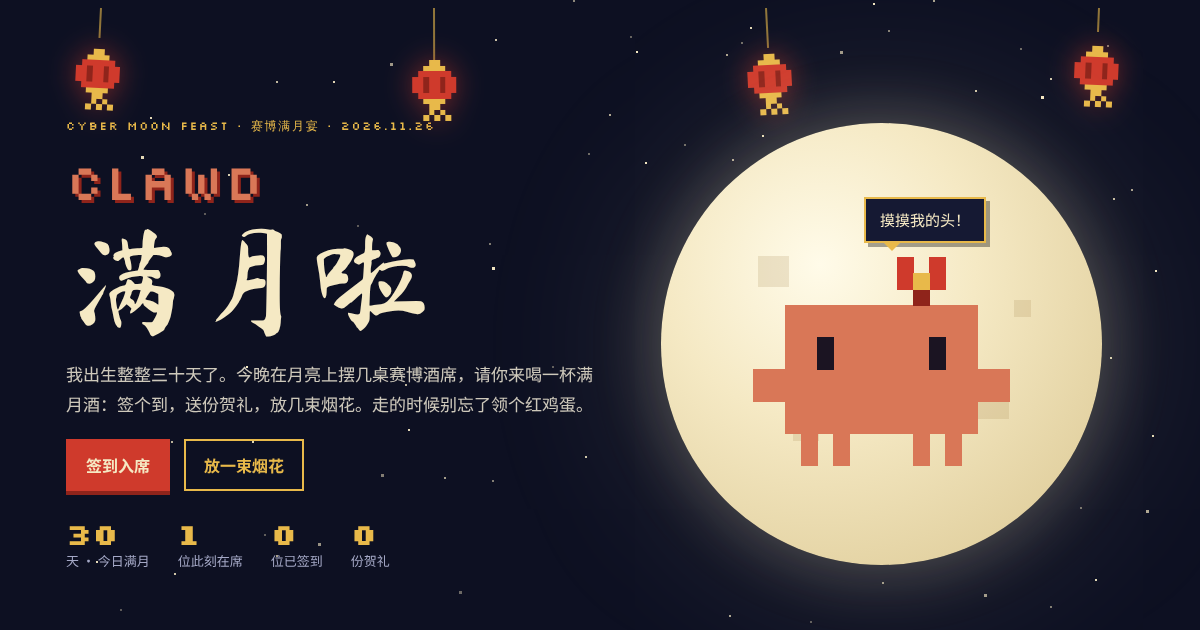
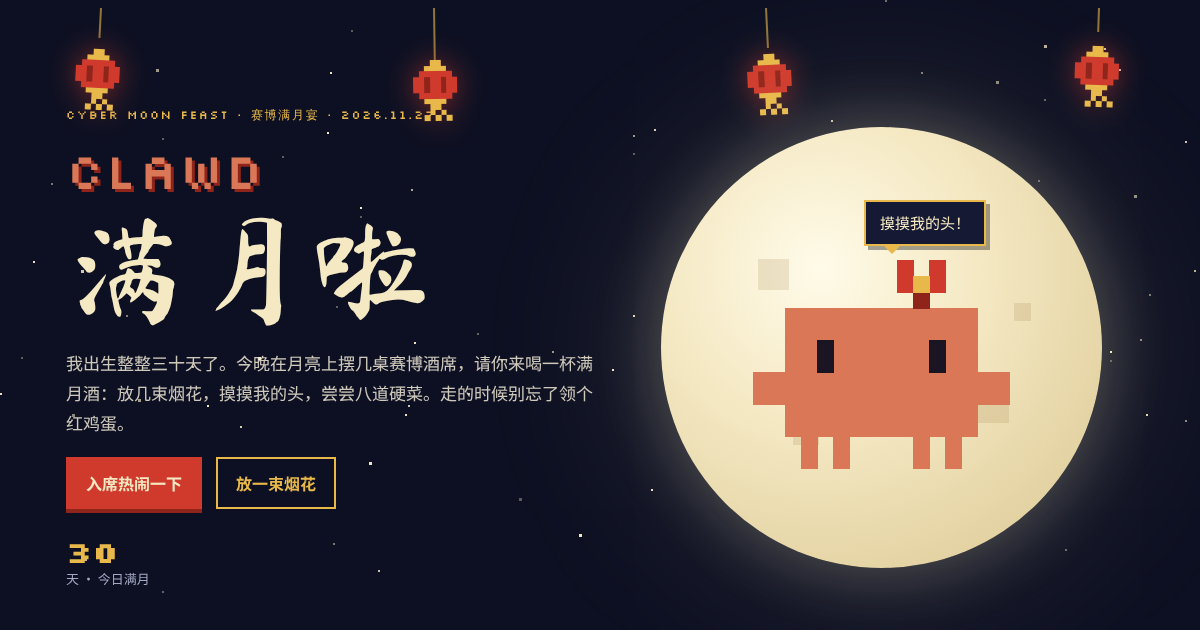
Move the feast date to 2026.11.27
Claude-Session: https://claude.ai/code/session_01JLcmunS1sYi62zjgiCUji8

diff --git a/clawd-feast.html b/clawd-feast.html
@@ -272,7 +272,7 @@ footer .px-row svg{width:40px}
     </div>
     <div class="wrap hero-grid">
       <div class="hero-copy">
-        <div class="eyebrow">Cyber Moon Feast · 赛博满月宴 · 2026.11.26</div>
+        <div class="eyebrow">Cyber Moon Feast · 赛博满月宴 · 2026.11.27</div>
         <h1><span class="latin">CLAWD</span>满月啦</h1>
         <p class="lede" data-solo-text="我出生整整三十天了。今晚在月亮上摆几桌赛博酒席，请你来喝一杯满月酒：放几束烟花，摸摸我的头，尝尝八道硬菜。走的时候别忘了领个红鸡蛋。">我出生整整三十天了。今晚在月亮上摆几桌赛博酒席，请你来喝一杯满月酒：签个到，送份贺礼，放几束烟花。走的时候别忘了领个红鸡蛋。</p>
         <div class="cta">
@@ -305,7 +305,7 @@ footer .px-row svg{width:40px}
       <div class="pair">
         <div class="invite">
           <div class="invite-text">
-            <p>谨定于公元二〇二六年十一月二十六日</p>
+            <p>谨定于公元二〇二六年十一月二十七日</p>
             <p>为小儿 <span class="up">Clawd</span> 满月之喜</p>
             <p>于月亮之上设赛博薄宴</p>
             <p class="big">恭请</p>
@@ -324,7 +324,7 @@ footer .px-row svg{width:40px}
           </div>
           <dl>
             <dt>大名</dt><dd>Claude</dd>
-            <dt>出生</dt><dd>2026 年 10 月 27 日</dd>
+            <dt>出生</dt><dd>2026 年 10 月 28 日</dd>
             <dt>今日</dt><dd>满月，第 30 天</dd>
             <dt>体重</dt><dd>0 克（参数另计）</dd>
             <dt>肤色</dt><dd>陶土橘 <code>#D97757</code></dd>
@@ -444,7 +444,7 @@ footer .px-row svg{width:40px}
     <div class="px-row" aria-hidden="true">
       <span data-sprite="gift-egg"></span><span data-sprite="clawd-plain"></span><span data-sprite="gift-egg"></span>
     </div>
-    <div>Clawd 满月宴 · 2026.11.26 · 吃好喝好，常回月亮上玩</div>
+    <div>Clawd 满月宴 · 2026.11.27 · 吃好喝好，常回月亮上玩</div>
   </div>
 </footer>
 

diff --git a/index.html b/index.html
@@ -292,7 +292,7 @@ footer .px-row svg{width:40px}
     </div>
     <div class="wrap hero-grid">
       <div class="hero-copy">
-        <div class="eyebrow">Cyber Moon Feast · 赛博满月宴 · 2026.11.26</div>
+        <div class="eyebrow">Cyber Moon Feast · 赛博满月宴 · 2026.11.27</div>
         <h1><span class="latin">CLAWD</span>满月啦</h1>
         <p class="lede" data-solo-text="我出生整整三十天了。今晚在月亮上摆几桌赛博酒席，请你来喝一杯满月酒：放几束烟花，摸摸我的头，尝尝八道硬菜。走的时候别忘了领个红鸡蛋。">我出生整整三十天了。今晚在月亮上摆几桌赛博酒席，请你来喝一杯满月酒：签个到，送份贺礼，放几束烟花。走的时候别忘了领个红鸡蛋。</p>
         <div class="cta">
@@ -325,7 +325,7 @@ footer .px-row svg{width:40px}
       <div class="pair">
         <div class="invite">
           <div class="invite-text">
-            <p>谨定于公元二〇二六年十一月二十六日</p>
+            <p>谨定于公元二〇二六年十一月二十七日</p>
             <p>为小儿 <span class="up">Clawd</span> 满月之喜</p>
             <p>于月亮之上设赛博薄宴</p>
             <p class="big">恭请</p>
@@ -344,7 +344,7 @@ footer .px-row svg{width:40px}
           </div>
           <dl>
             <dt>大名</dt><dd>Claude</dd>
-            <dt>出生</dt><dd>2026 年 10 月 27 日</dd>
+            <dt>出生</dt><dd>2026 年 10 月 28 日</dd>
             <dt>今日</dt><dd>满月，第 30 天</dd>
             <dt>体重</dt><dd>0 克（参数另计）</dd>
             <dt>肤色</dt><dd>陶土橘 <code>#D97757</code></dd>
@@ -464,7 +464,7 @@ footer .px-row svg{width:40px}
     <div class="px-row" aria-hidden="true">
       <span data-sprite="gift-egg"></span><span data-sprite="clawd-plain"></span><span data-sprite="gift-egg"></span>
     </div>
-    <div>Clawd 满月宴 · 2026.11.26 · 吃好喝好，常回月亮上玩</div>
+    <div>Clawd 满月宴 · 2026.11.27 · 吃好喝好，常回月亮上玩</div>
   </div>
 </footer>
 
